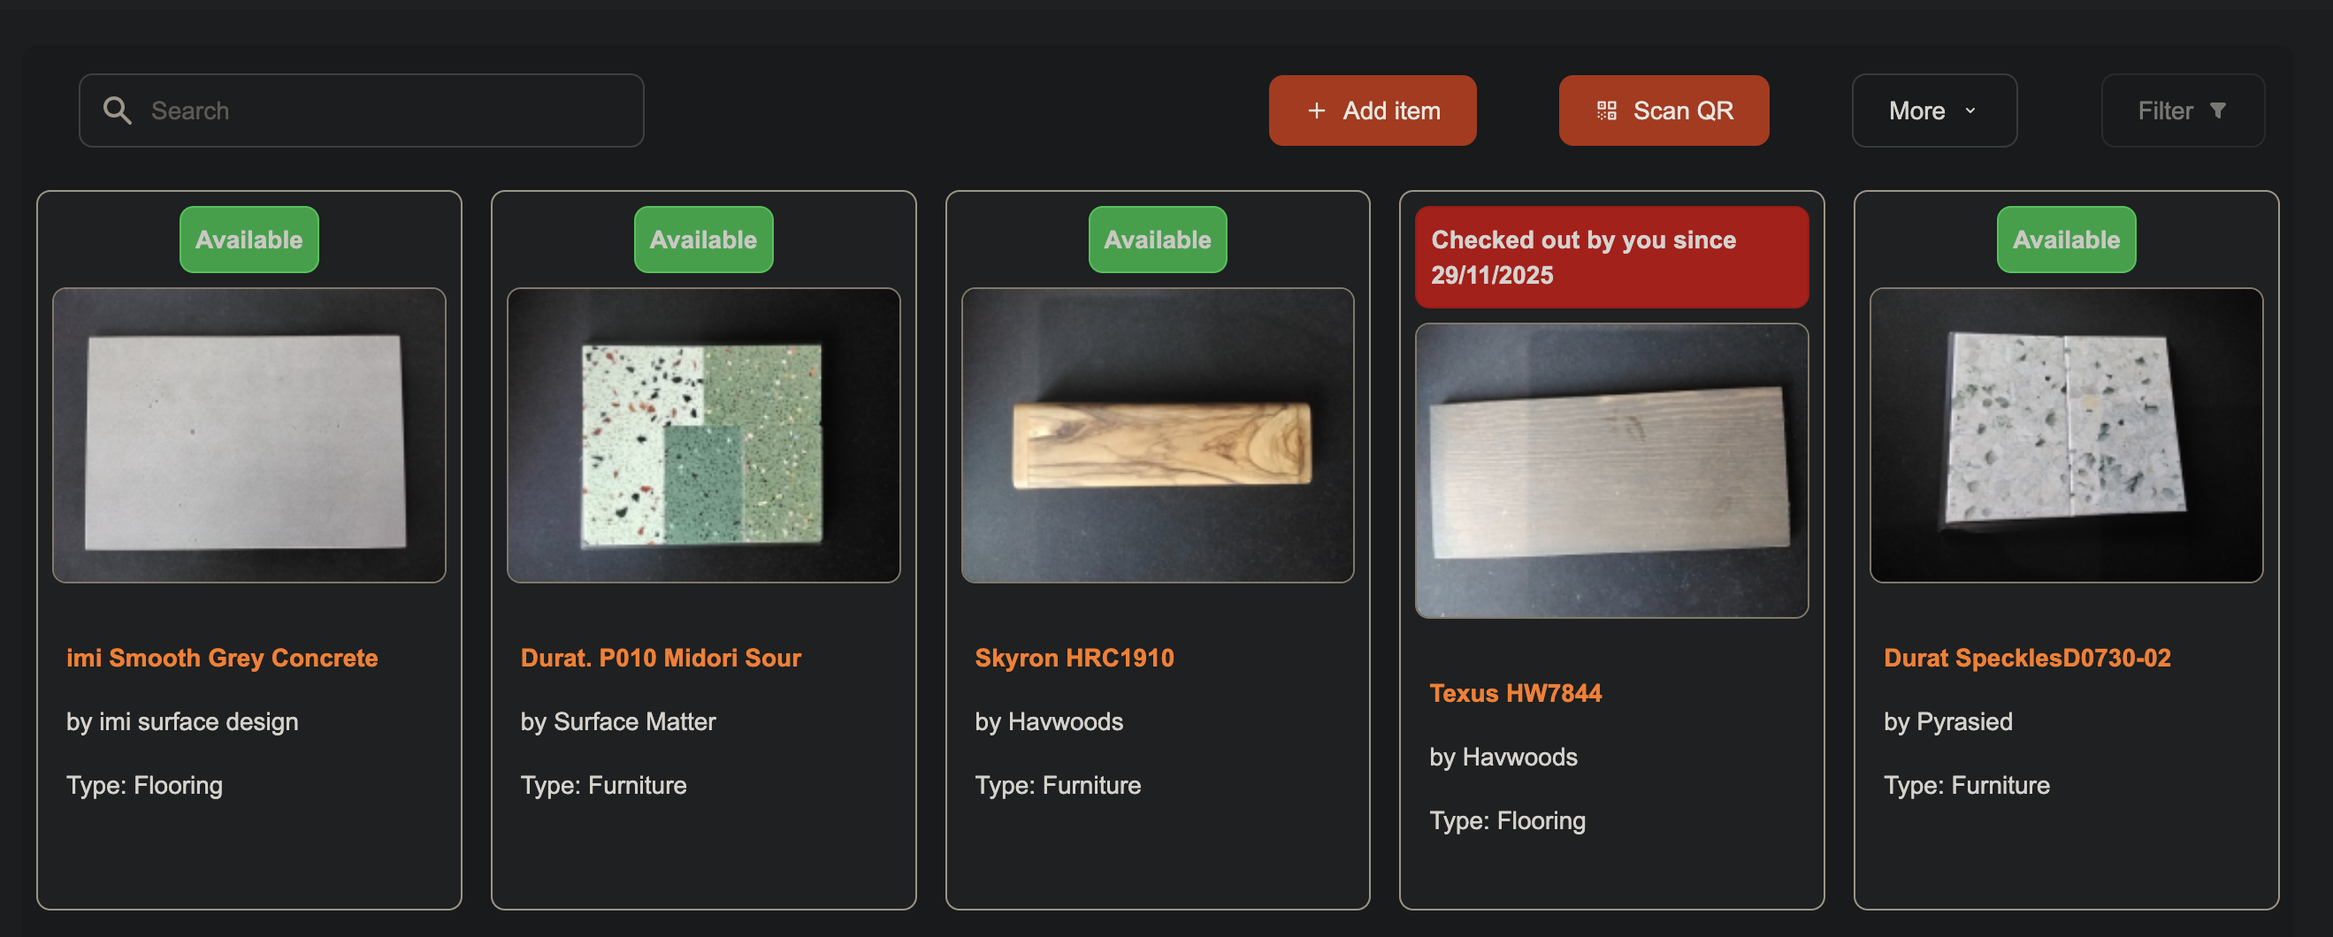
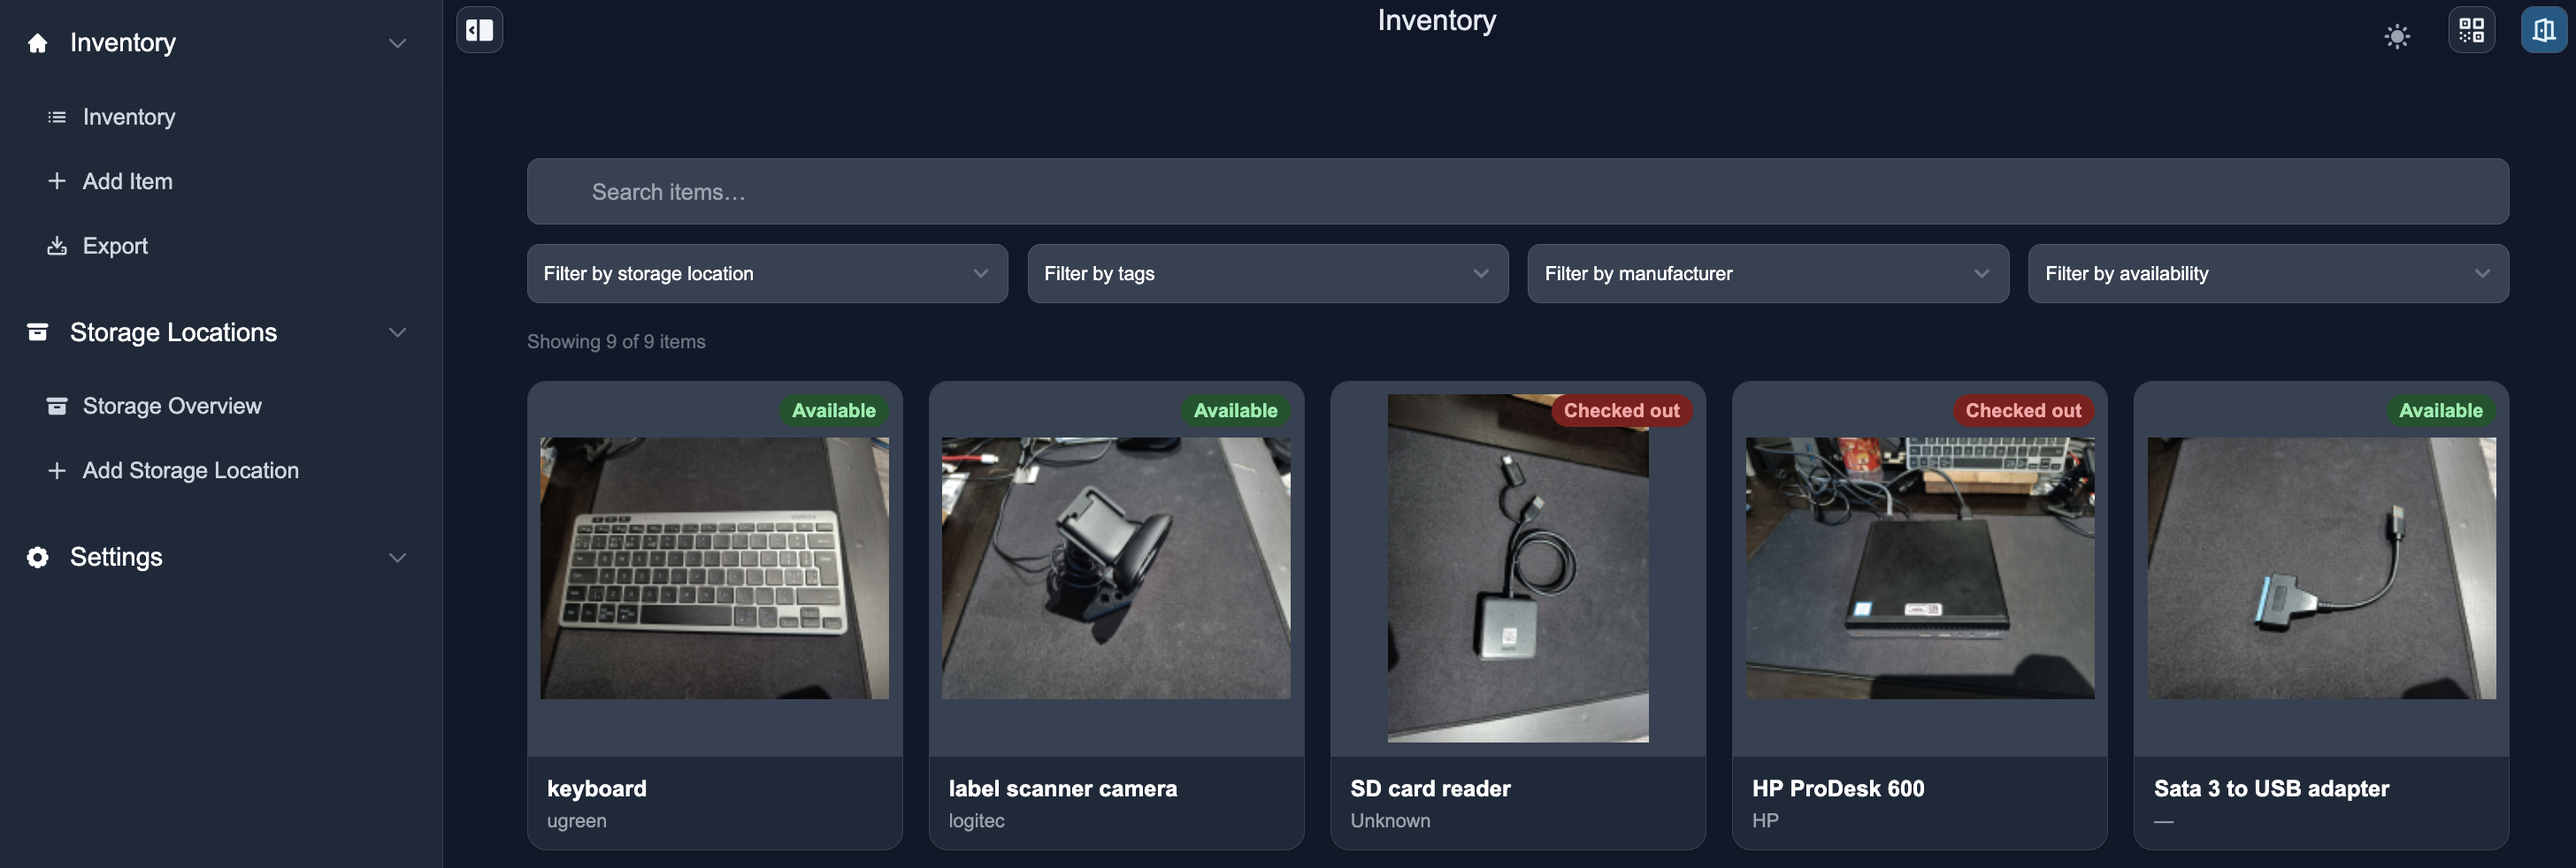
Update README

diff --git a/README.md b/README.md
@@ -2,7 +2,7 @@
 inventory
 </h1>
 <p align="center">
-A minimal physical asset management tool
+A minimal asset management tool
 </p>
 
 ### In Short
@@ -12,12 +12,13 @@ Minimal inventory management system to track physical assets in a digital databa
 ### Key Features
 
 :thumbsup: Easy access, easy to maintain inventory database.  
-:vertical_traffic_light: Track item storage and item lending automated with QR code system.  
-:computer: Designed for minimal hardware requirements and cost (see recommended hardware below).  
+:ticket: Identify assets and storage locations with QR labels 
+:computer: Designed for minimal hardware requirements and cost (see recommended hardware).  
 :raising_hand: Use build-in authentification management or hook up to your own.  
 :fire: Easy customer access via web app built with [svelte](https://svelte.dev/)  
+:mag: Track and match assets and storage locations
 
-![alt text](https://github.com/maxxonair/inventory/blob/0.0.1/imgs/inv_example.png?raw=true)
+![alt text](https://github.com/maxxonair/inventory/blob/0.0.2/imgs/inv_example.png?raw=true)
 
 # SETUP
 
@@ -31,13 +32,10 @@ The core modules:
 - The database 
 - The inventory server
 - The inventory application
-- Services:
-    - Camera 
-    - Printer
 
-The database, inventory servera and application should be run on the same machine, while the services can be run on dedicated terminal machines, e.g. in the archive or warehouse.
+The database, inventory servera and application should be run on the same machine.
 
-![alt text](https://github.com/maxxonair/inventory/blob/0.0.1/imgs/inventory_sketch_light.drawio.png?raw=true)
+![alt text](https://github.com/maxxonair/inventory/blob/0.0.2/imgs/inventory_sketch_light.drawio.png?raw=true)
 
 ## 1. Requirements
 
@@ -117,16 +115,7 @@ This allows to:
 Note: This functionality is not protected and should hence be accessible only to
 system administrators on the backend server.
 
-#### 2.3 (Optional) Set up kuma uptime
-
-If there is no service monitoring already in place it is recommended to use [kuma uptime](https://github.com/louislam/uptime-kuma) to monitor the health status of the application. Kuma as well runs as a podman container and can be installed running the scripts/setup_kuma_uptime.sh script. Note kuma by default is set to use docker instead of podman so you will need to replace the image link in the uptime-kuma docker-compose file before running the container:
-
-```
-services:
-  uptime-kuma:
-    image: docker.io/louislam/uptime-kuma:2
-```
-
+Once the first admin user is set up additional users can added within the application under Settings / User Settings
 
 ### User Privileges
 
@@ -139,7 +128,7 @@ The following privelege levels are currently maintained, the table shows their a
 | **Delete Item**     | -     | -        | x          | x          | x     |
 | **Modify Item**     | -     | -        | x          | x          | x     |
 | **Export to CSV**   | -     | x        | x          | x          | x     |
-| **Settings Access** | -     | -        | -          | x          | x     |
+| **Add User**        | -     | -        | -          | x          | x     |
 
 
 ## 3 Manual Commands
@@ -172,16 +161,18 @@ bun run dev
 
 :warning: The printer connection requires Web Bluetooth which only works with the following browsers:
 
-| Platform                     | Supported?                  |
-| ---------------------------- | --------------------------- |
+| Platform                     | Supported?                   |
+| ---------------------------- | ---------------------------  |
 | **Chrome (desktop)**         | ✅ Yes                       |
 | **Chrome on Android**        | ✅ Yes                       |
-| **Edge (Chromium)**          | ⚠ Partial                  |
+| **Edge (Chromium)**          | ⚠ Partial                   |
 | **Firefox**                  | ❌ No                        |
 | **Safari (Mac/iOS)**         | ❌ No                        |
 | **Any browser in an iframe** | ❌ No (unless special flags) |
 | **On http:// URLs**          | ❌ No                        |
 | **On localhost**             | ✅ Yes                       |
+
+Note that any browser will not allow camera access unless the application is accessed through https or if the server is accessed as locahost.
 
 ### Enable Web-Bluetooth
 
@@ -218,20 +209,23 @@ each item in the inventory.
 | **Color**     | Product color  |
 | **Product Use**     | Product use  |
 | **Material**     | Product Material |
-| **Storage Location**     | Storage location of the item  |
+| **Storage Location**     | Storage location ID of the storage location where the item is stored  |
+
+### Storage Location Data
+
+A second table tracks storage location instances. Each item can only have a single storage location, but each storage location can contain several items. The mapping is done in the storage location column in the item database, which contains the ID of the storage location that item is stored.
 
 # Hardware Requirements
 
 Inventory is fully containerised and hence can be run on any system able to run podman containers.
 
-It was developped and tested with the following hardware:
+It was developped and tested with the following auxiliary hardware:
 
-- BMAX mini PC (to run UI server and database) running Ubuntu Desktop 24.04.1
+- BMAX mini PC (to run UI server and database) running Ubuntu Desktop 24.04.1 also tested successfully on macOS Tahoe and Windows 11
 - (OPTIONAL) USB webcam. Any device camera (smartphone, tabled, laptop) can be used as well.
 - Niimbot D110 label printer (to print item QR code labels)
 
-## Client Side Requirements
+The inventory application can run on any device with a browser and has been tested successfully on desktops, laptops, tablets and smartphones.
 
-Inventory can be run on any device that has a web browser installed. To be able 
-to use full functionality (camera and printer access), you need to use Google Chrome on any desktop device with linux or windows (untested) installed or any android device. Apple devices currently do not give access to Web-Bluetooth, hence the label printer cannot be accessed from there, all other functions work normally.
+To be able to use all functions (camera and printer access), you need to use Google Chrome. Some apple devices currently do not give access to Web-Bluetooth which prevents label printing.
 
